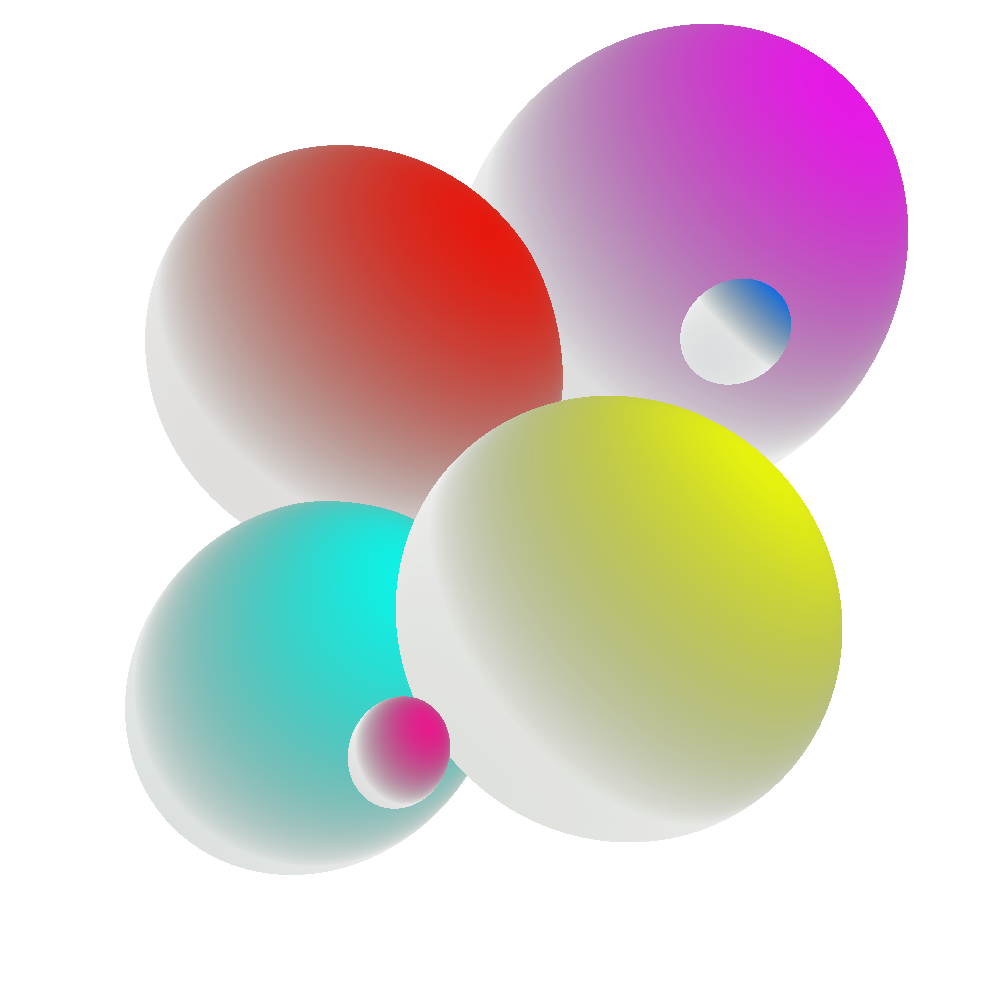
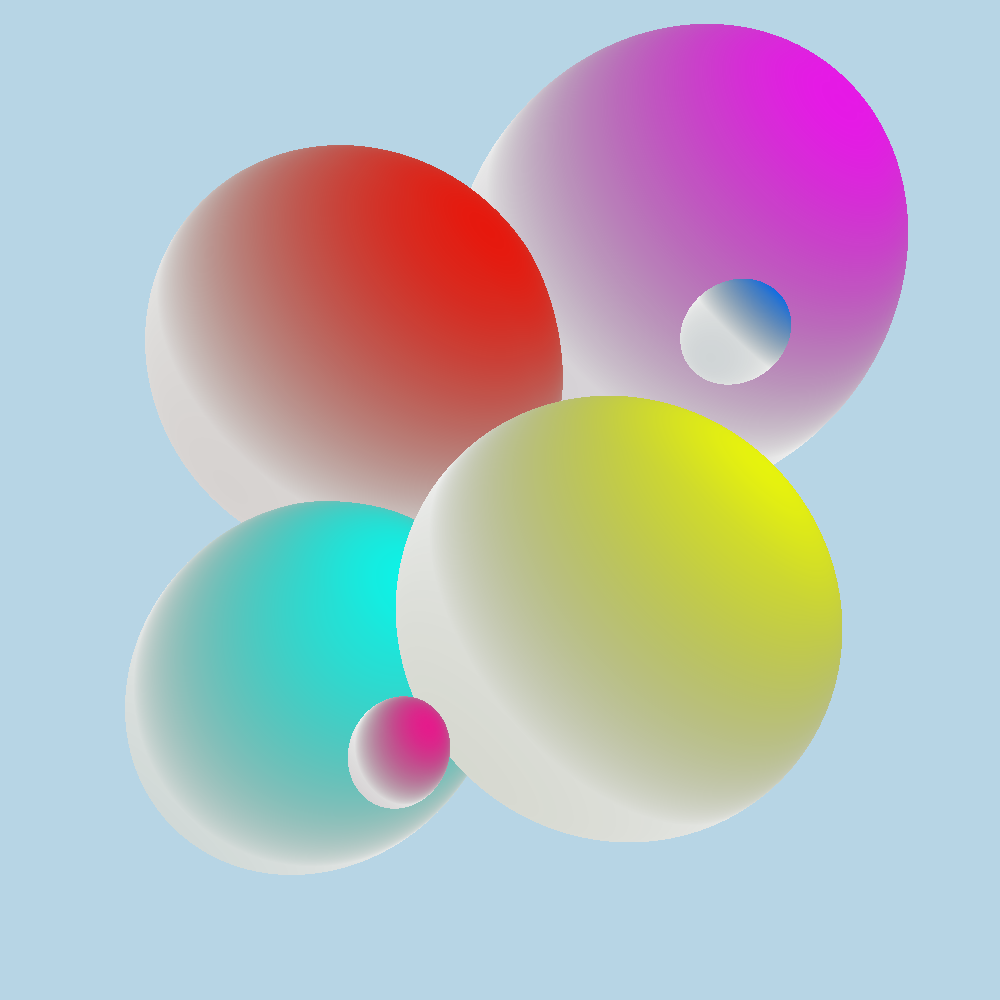
tweaking background color settings

diff --git a/src/main/java/tracing/Ray.java b/src/main/java/tracing/Ray.java
@@ -55,7 +55,8 @@ public class Ray {
         }
 
         if(firstIntersection == null) {
-            return RTColor.blank;
+            /// TODO - decide what background to return if no intersection
+            return RTColor.backgroundColor;
         }
 
         /// TODO - recursive tracing (reflections/refractions)

diff --git a/src/main/java/utility/RTColor.java b/src/main/java/utility/RTColor.java
@@ -39,6 +39,8 @@ public class RTColor {
     public static final RTColor magenta   = new RTColor(1.0, 0, 1.0);
     public static final RTColor yellow    = new RTColor(1.0, 1.0, 0);
 
+    public static final RTColor backgroundColor = new RTColor(168, 204, 224, 210);
+
     /**
      * Constructors
      *
